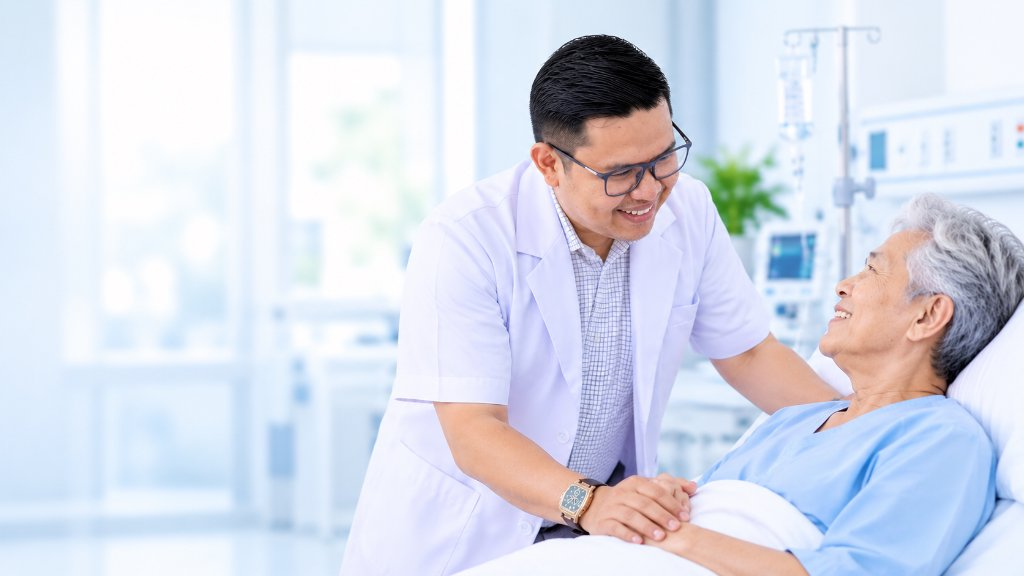
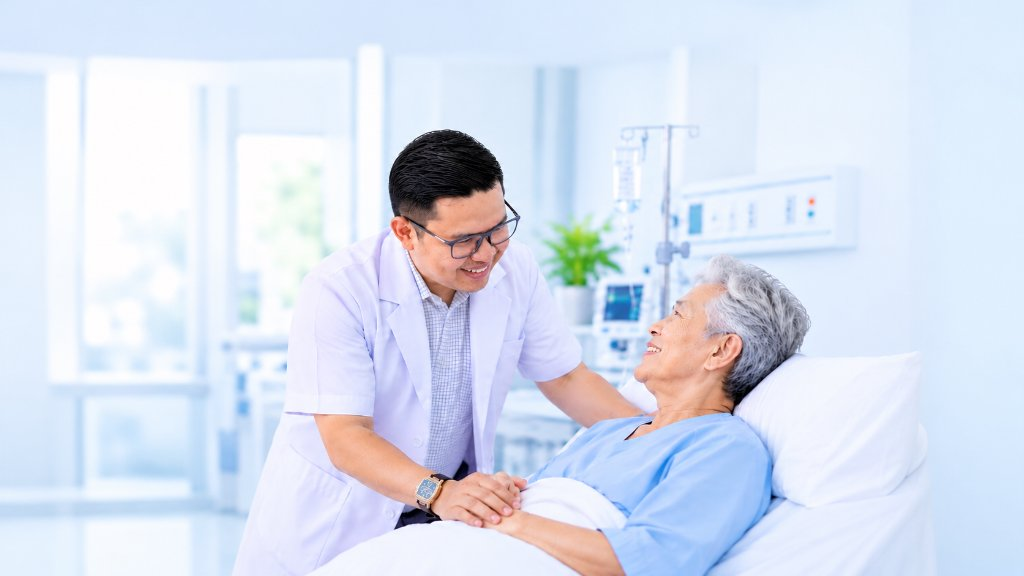
feat(about): replace left image with user-provided doctor and patient bedside care photo

diff --git a/components/AboutSectionHome.jsx b/components/AboutSectionHome.jsx
@@ -11,12 +11,12 @@ export default function AboutSectionHome() {
 
       {/* 1. Background Image Layer on Left - Menempel dari batas atas (top-0) hingga batas bawah (bottom-0) */}
       <div className="absolute top-0 bottom-0 left-0 w-full lg:w-[49%] xl:w-[48%] h-[380px] sm:h-[440px] lg:h-full overflow-hidden z-0 pointer-events-none">
-        <div className="relative w-full h-full scale-[0.90] origin-center sm:origin-left">
+        <div className="relative w-full h-full">
           <Image
             src="/assets/tentang-dokter-pasien.jpg"
             alt="Dedikasi Sepenuh Hati Dokter & Pasien Klinik dr. Suhendra"
             fill
-            className="object-cover object-[88%_center] select-none"
+            className="object-cover object-[85%_center] select-none"
             priority
           />
         </div>
